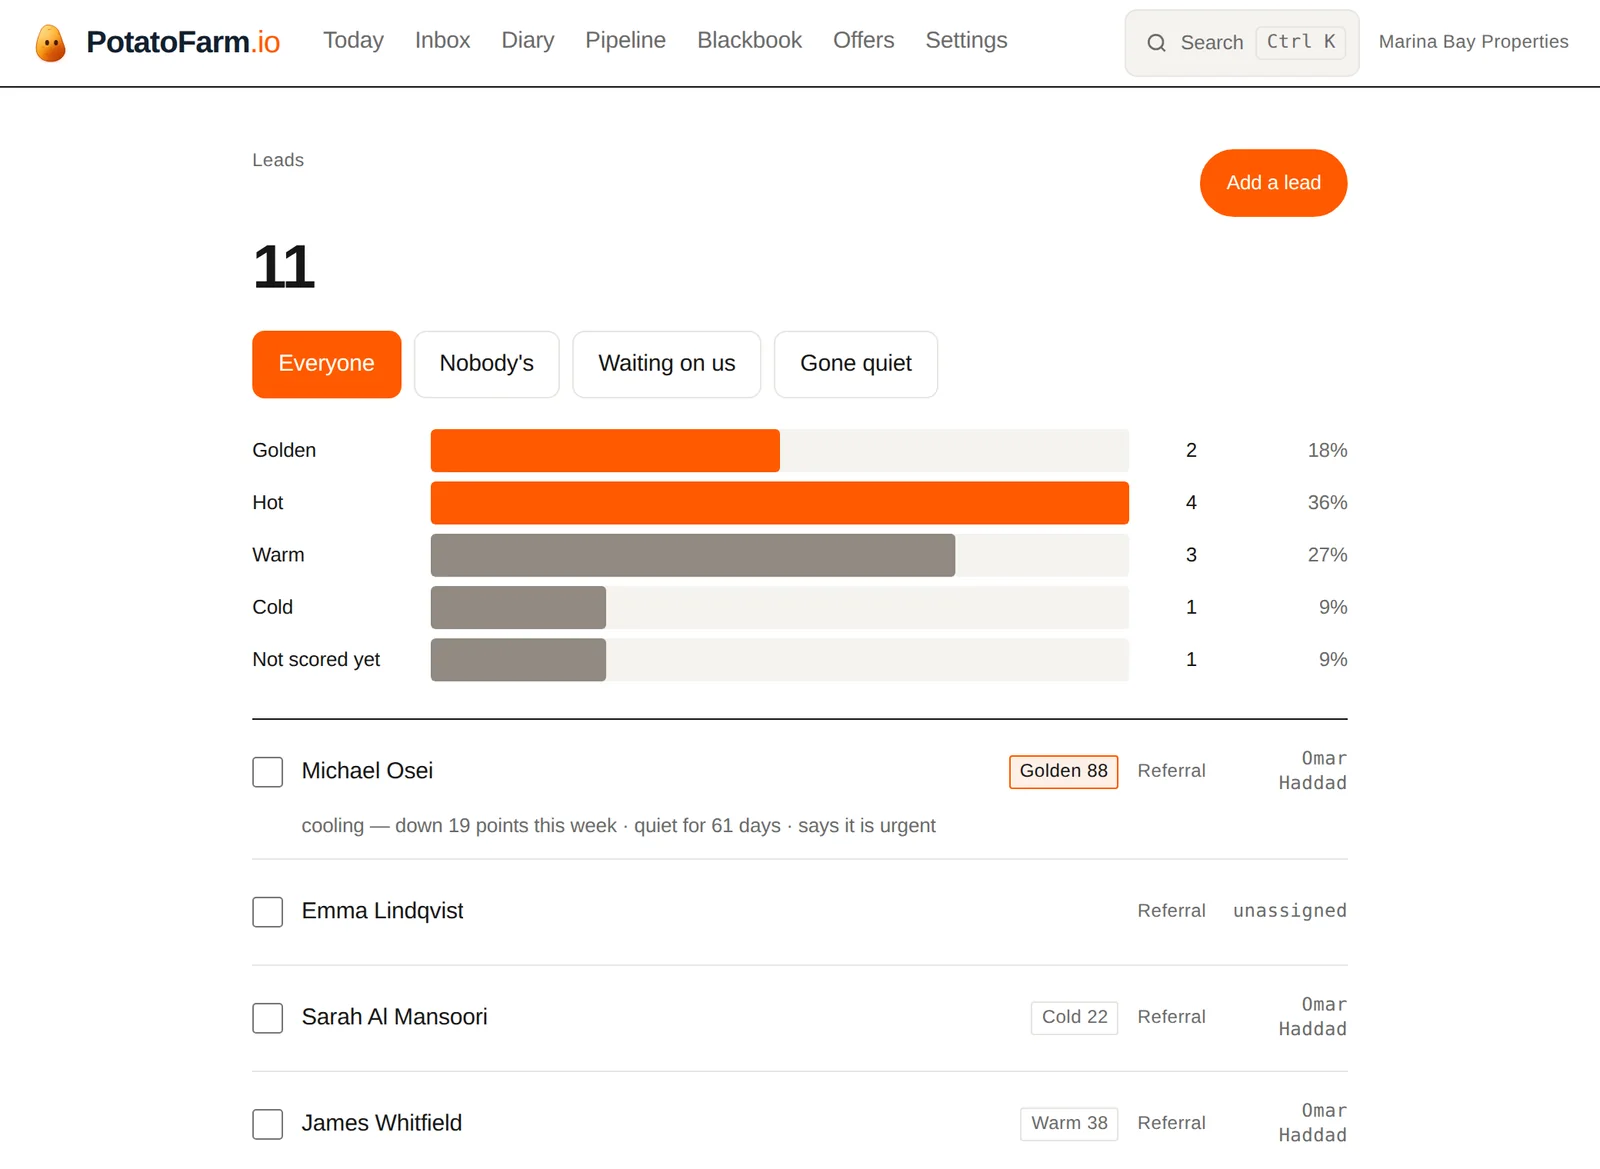
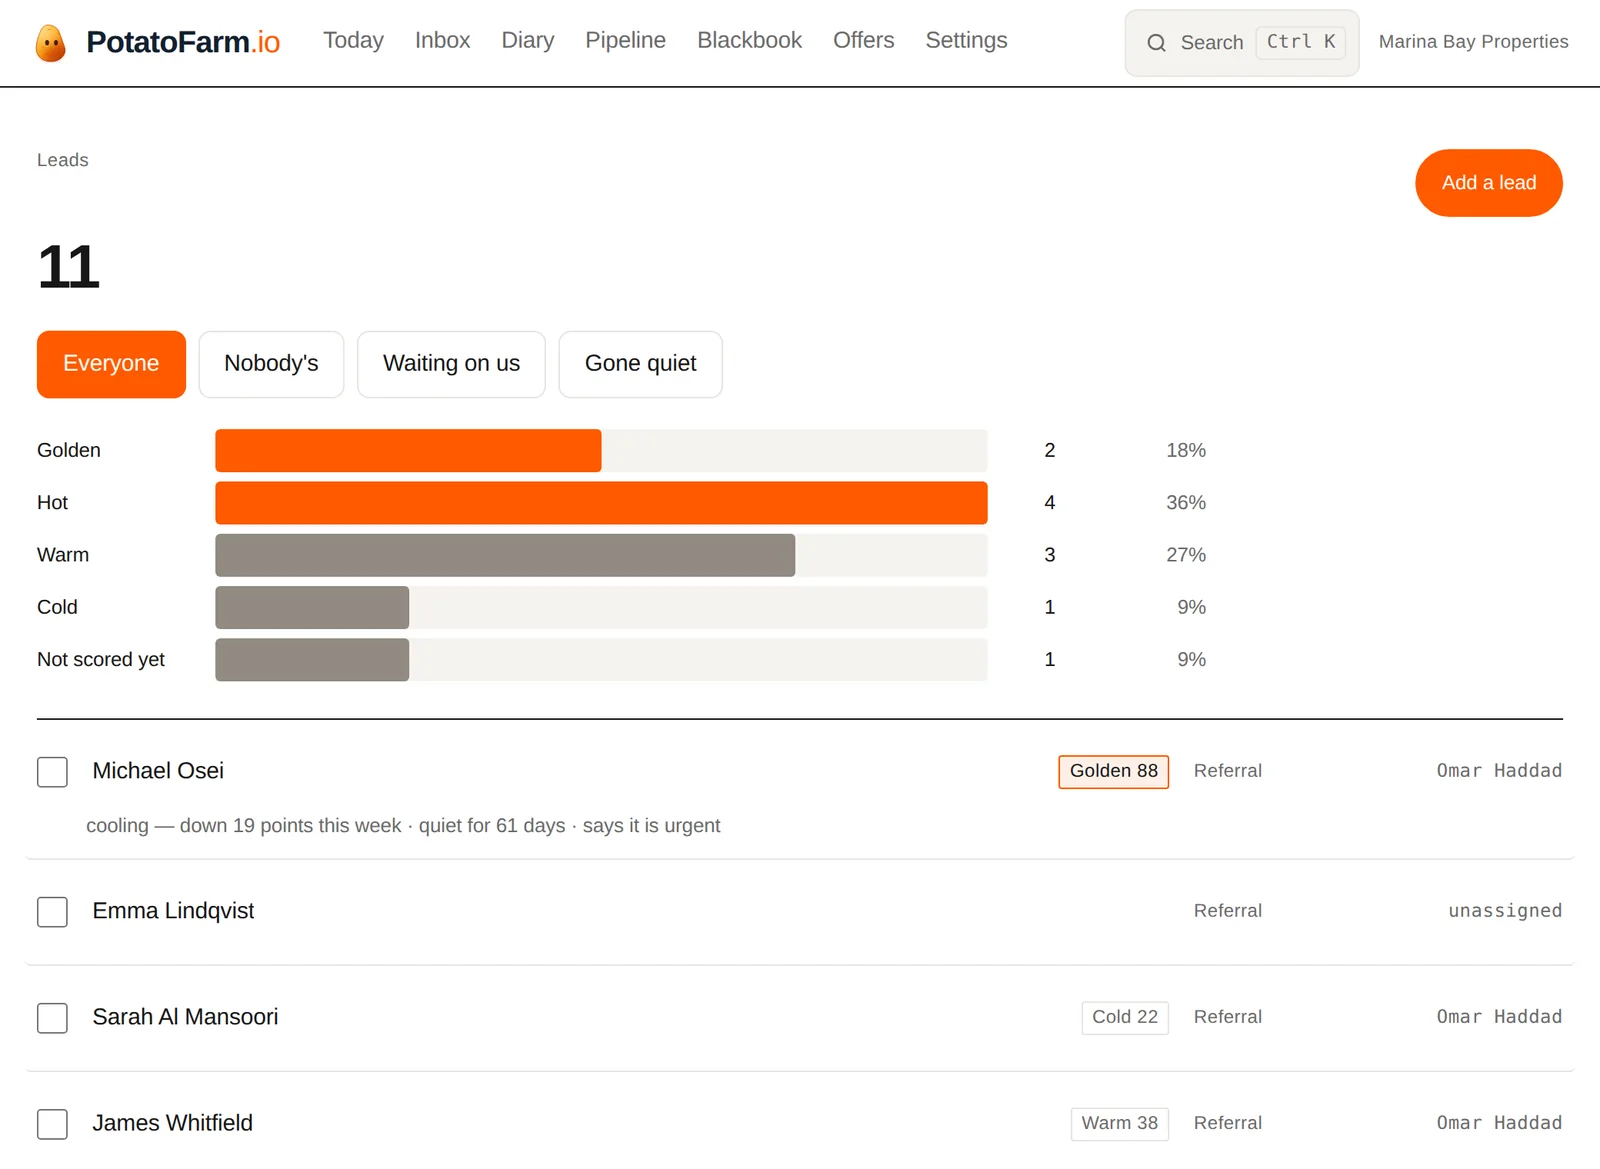
Give the leads list and the site hero the width they were designed for
Same fault as /today, in the two other places it shows most.

## /leads

760px in a 1120 wrap, so 680 of 1440 pixels were empty and the assignee
column was 80px wide — every two-part name wrapped onto a second line
("Omar / Haddad" on every row of the demo book) with 340 pixels of that
same row blank to the right of it.

Widened to 1180 to match Today, and the row is a grid rather than a flex
line. As flex it was name-left and everything-else-hard-right, which is
correct at 760 and a chasm at 1180: eight hundred pixels between a name
and the chip saying how warm that lead is, on every row, with nothing to
carry the eye across. Fixed columns line the band, source and owner up
down the page, and a hover tint says which row you are reading at the
far side of the screen.

The band cell is now rendered even when a lead has no score. Omitting it
collapsed the column and slid the source and owner one place left for
that row alone, so an unscored lead's "Referral" sat under everybody
else's score chip — which reads as a layout bug rather than as missing
data.

## The website hero

The largest single visual fault on the site, and it is above the fold on
the page a brokerage owner lands on. Headline, paragraph, both buttons
and the WhatsApp conversation were stacked in one 580px column inside a
1120px wrap: the right half of a 1440px screen empty, and the one thing
on the page that shows the product working pushed below the fold. The
[…]

diff --git a/02-the-project/app/src/app/(app)/leads/page.tsx b/02-the-project/app/src/app/(app)/leads/page.tsx
@@ -53,7 +53,21 @@ export default function Leads() {
   });
 
   return (
-    <div className="max-w-[760px] mx-auto px-6 pb-24">
+    /**
+     * 1180px, the same as Today.
+     *
+     * It was 760, which on the 1440px laptop an owner is shown the
+     * product on left **680 pixels — nearly half the screen — empty**,
+     * with a 760px column floating left of centre while the header
+     * above it ran the full width. Three separate groups of people
+     * reported the product as visually unfinished and this was the
+     * clearest instance of it.
+     *
+     * The list is the thing that needed the room. Every row is name,
+     * band, source and owner on one line, and at 760 they were fighting
+     * for it — see the assignee column below.
+     */
+    <div className="max-w-[1180px] mx-auto px-6 pb-24">
       <header className="pt-10 pb-5">
         <div className="flex items-start justify-between gap-4 mb-3">
           <span className="t-label text-ink-3">
@@ -119,7 +133,7 @@ export default function Leads() {
         * mean "ring them" and "not today" say more anyway.
         */}
       {shape && shape.total > 0 && (
-        <div className="mb-6">
+        <div className="mb-6 max-w-[760px]">
           <Funnel
             caption="Leads by score"
             rows={shape.bands.map((b) => ({
@@ -184,8 +198,27 @@ export default function Leads() {
       ) : (
         <div className="border-t border-ink">
           {rows.map((l) => (
+            /**
+             * A grid, and a row that lights up under the pointer.
+             *
+             * As a flex row this was name-on-the-left and everything
+             * else pushed hard right, which is correct at 760px and a
+             * chasm at 1180: eight hundred pixels of nothing between
+             * "Michael Osei" and the chip that says how warm he is, on
+             * every row, with nothing to carry the eye across it.
+             *
+             * Fixed columns mean the band, the source and the owner
+             * line up down the page instead of floating at the end of
+             * whatever length the name happened to be — which is the
+             * thing that makes a wide list scannable rather than merely
+             * wide. The hover is the other half: it is what tells you
+             * which row you are reading at the far side of the screen.
+             */
             <div key={l.id} data-lead={l.id}
-                 className="flex flex-wrap items-center gap-x-3 gap-y-1 py-3 border-b border-rule">
+                 className="grid grid-cols-[auto_minmax(0,1fr)_104px] items-center gap-x-4 gap-y-1
+                            border-b border-rule py-3 -mx-2 px-2 rounded-sm
+                            transition-colors hover:bg-sunk
+                            min-[900px]:grid-cols-[auto_minmax(0,1fr)_104px_96px_128px]">
               <label className="flex items-center min-h-11 cursor-pointer">
                 <span className="sr-only">Select {l.name ?? l.phone}</span>
                 <input type="checkbox" checked={picked.has(l.id)} onChange={() => toggle(l.id)}
@@ -199,20 +232,40 @@ export default function Leads() {
                   the word is what an agent scans and the number is what
                   they argue with — and a word with no number behind it
                   is the kind of label people learn to ignore. */}
+              {/* Rendered even when there is none, as an empty cell.
+                  Conditionally *omitting* it collapses the column and
+                  slides the source and the owner one place left for
+                  that row alone — an unscored lead's "Referral" landing
+                  under everybody else's score chip, which reads as a
+                  layout bug rather than as missing data. */}
+              {!l.band && <span aria-hidden />}
               {l.band && (
                 <span data-band={l.band.band} title={l.band.blurb}
                       className={cn(
-                        "t-label px-1.5 py-0.5 rounded-[2px] border",
+                        "t-label px-1.5 py-0.5 rounded-[2px] border justify-self-end",
                         l.band.band === "GOLDEN" || l.band.band === "HOT"
                           ? "text-accent-deep border-accent-edge bg-accent-soft"
                           : "text-ink-3 border-rule")}>
                   {l.band.label} <span className="tabular">{l.score}</span>
                 </span>
               )}
-              <span className="t-label text-ink-3">
+              {/* Hidden below 900px rather than wrapped. On a phone
+                  the source is the least useful of the three and
+                  wrapping it put a third line under every row. */}
+              <span className="t-label text-ink-3 hidden min-[900px]:block truncate">
                 {sentence(l.source)}
               </span>
-              <span className="font-mono text-label text-ink-3 w-20 text-end tabular">
+              {/* 128px, not 80.
+                  At 80 every two-part name wrapped onto a second line —
+                  "Omar / Haddad" on every row of the demo book — while
+                  340 pixels of the same row sat empty to the right of
+                  it. A fixed column is right here, because the names
+                  should line up; the width was simply too small for the
+                  names it holds. `truncate` rather than a wider column
+                  for the rare long one: a row that grows a second line
+                  breaks the rhythm of the whole list. */}
+              <span className="font-mono text-label text-ink-3 truncate text-end tabular
+                               hidden min-[900px]:block">
                 {l.assignedTo?.name ?? "unassigned"}
               </span>
               {/* Why it is that warm, in the sweep's own words. An
@@ -220,7 +273,7 @@ export default function Leads() {
                   ignore, and the reason is also how they catch it being
                   wrong — the same argument as the Today list. */}
               {l.drivers.length > 0 && (
-                <p className="basis-full ps-8 text-note leading-snug text-ink-3">
+                <p className="col-span-full ps-8 text-note leading-snug text-ink-3">
                   {l.drivers.join(" · ")}
                 </p>
               )}

diff --git a/02-the-project/website/assets/site.css b/02-the-project/website/assets/site.css
@@ -506,6 +506,44 @@ nav a.keep{}
 .thread .foot{margin-top:18px;padding-top:16px;border-top:1px solid var(--rule);
   font-size:var(--t-note);color:var(--ink-3)}
 
+/* The hero is two columns from 900px, and this is the single largest
+   visual fault anybody reported about this site.
+   
+   Everything in it — headline, paragraph, both buttons and the
+   conversation — was stacked in one column about 580px wide inside a
+   1120px wrap. On the 1440px laptop a brokerage owner is shown this on,
+   that left the right half of the screen empty above the fold, and it
+   pushed the conversation card — the one thing on the page that shows
+   the product working — below it. The first screen of the site was a
+   headline, a paragraph and a lot of white.
+
+   Placed rather than reordered: the markup stays in reading order, so
+   the source, the screen reader and the phone layout are unchanged and
+   only the desktop composition moves.
+
+   `:has()` scopes this to the one hero that actually contains a
+   conversation — every other page shares `.hero` and would otherwise
+   get an empty second column. A browser without `:has()` drops the
+   whole rule and gets the stacked layout, which is the state this
+   replaces rather than a broken one. */
+@media (min-width: 900px) {
+  .hero .wrap:has(.thread) {
+    display: grid;
+    grid-template-columns: minmax(0, 1fr) minmax(0, 470px);
+    column-gap: clamp(40px, 5vw, 76px);
+    align-items: start;
+  }
+  .hero .wrap:has(.thread) > .display { grid-column: 1; grid-row: 1 }
+  .hero .wrap:has(.thread) > .lead    { grid-column: 1; grid-row: 2 }
+  .hero .wrap:has(.thread) > .actions { grid-column: 1; grid-row: 3 }
+  /* Spanning all three rows and starting at the top, so the card sits
+     beside the headline rather than beside the buttons. */
+  .hero .wrap:has(.thread) > .thread {
+    grid-column: 2; grid-row: 1 / span 3;
+    margin-top: 8px; max-width: none;
+  }
+}
+
 .mid{text-align:center}
 .mid h2{max-width:20ch;margin:0 auto}
 .mid p{max-width:var(--measure);margin:var(--r) auto 0}
